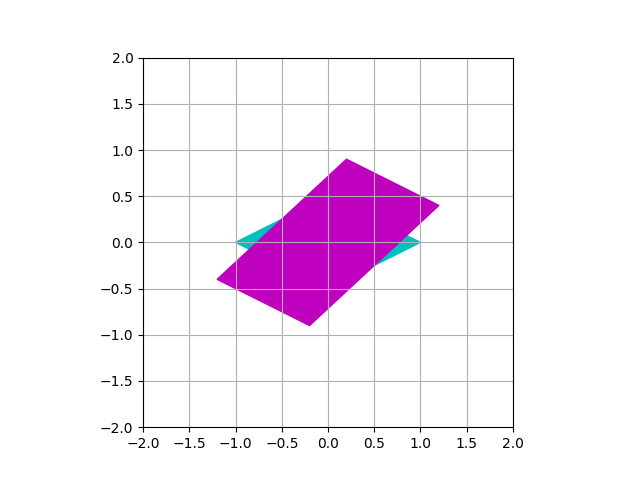
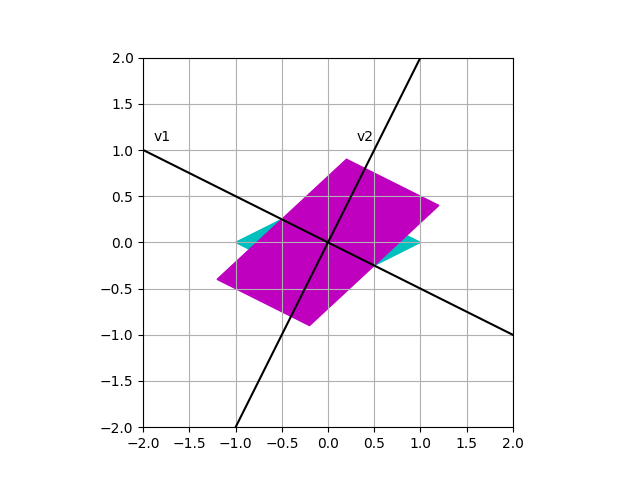
in process...

diff --git a/lab2/py_code/main.py b/lab2/py_code/main.py
@@ -15,16 +15,20 @@ def drawLine(axes):
     x0 = 0
     y0 = 0
 
-    x1 = 1
-    y1 = 0.5
+    x1 = (-sqrt(177) - 3)/14
+    y1 = 1
 
-    x2 = 0.5
+    x2 = (sqrt(177) - 3)/14
     y2 = 1.0
 
-    line = Line2D([x0, x1, x2], [y0, y1, y2], color="k")
-    axes.add_line(line)
+    line1 = Line2D([0, x1], [0, y1], color="k")
+    axes.add_line(line1)
 
-    plt.text(0.5, 1.1, "Line2D", horizontalalignment="center")
+    line2 = Line2D([0, x2], [0, y2], color="k")
+    axes.add_line(line2)
+
+    plt.text(-1.4, 1.1, "v1", horizontalalignment="center")
+    plt.text(0.5, 1.3, "v2", horizontalalignment="center")
 
 
 def drawPolygons(axes):
@@ -41,10 +45,10 @@ def drawPolygons(axes):
                                             (p_4[0][0], p_4[1][0])], color='c')
     axes.add_patch(polygon_1)
 
-    r_1 = f_8(p_1)
-    r_2 = f_8(p_2)
-    r_3 = f_8(p_3)
-    r_4 = f_8(p_4)
+    r_1 = f_15_b(p_1)
+    r_2 = f_15_b(p_2)
+    r_3 = f_15_b(p_3)
+    r_4 = f_15_b(p_4)
 
     polygon_2 = matplotlib.patches.Polygon([(r_1[0][0], r_1[1][0]),
                                             (r_2[0][0], r_2[1][0]),
@@ -58,15 +62,15 @@ def drawPolygons(axes):
 
 
 if __name__ == "__main__":
-    plt.xlim(-2, 2)
-    plt.ylim(-2, 2)
+    plt.xlim(-6, 6)
+    plt.ylim(-7.5, 7.5)
     plt.grid()
 
     # Получим текущие оси
     axes = plt.gca()
     axes.set_aspect("equal")
 
-   # drawLine(axes)
+    drawLine(axes)
     drawPolygons(axes)
     #a = np.array([[5], [2]])
     #print(f_1(a)[0][0])

diff --git a/lab2/py_code/functions.py b/lab2/py_code/functions.py
@@ -17,7 +17,7 @@ m_7 = np.array([[4/3, -1/6], [-8/3, 4/3]])
 
 m_8 = np.array([[1, 0], [10, -1]])
 
-m_9 = np.array([[sqrt(5), 0], [sqrt(5), 0]])
+m_9 = np.array([[sqrt(5), 0], [0, sqrt(5)]])
 
 m_10 = np.array([[3, 0], [0, 1]])
 
@@ -94,4 +94,37 @@ def f_13(vect):
 def f_14(vect):
     total = m_14.dot(vect)
     return total
+
+def f_15_a(vect):
+    total = m_15_a.dot(vect)
+    return total
+
+def f_15_b(vect):
+    total = m_15_b.dot(vect)
+    return total
+
+def f_15_ab(vect):
+    total = m_15_a.dot(m_15_b.dot(vect))
+    return total
+
+def f_15_ba(vect):
+    total = m_15_b.dot(m_15_a.dot(vect))
+    return total
+
+def f_16_a(vect):
+    total = m_16_a.dot(vect)
+    return total
+
+def f_16_b(vect):
+    total = m_16_b.dot(vect)
+    return total
+
+def f_16_ab(vect):
+    total = m_16_a.dot(m_16_b.dot(vect))
+    return total
+
+def f_16_ba(vect):
+    total = m_16_b.dot(m_16_a.dot(vect))
+    return total
+
 
